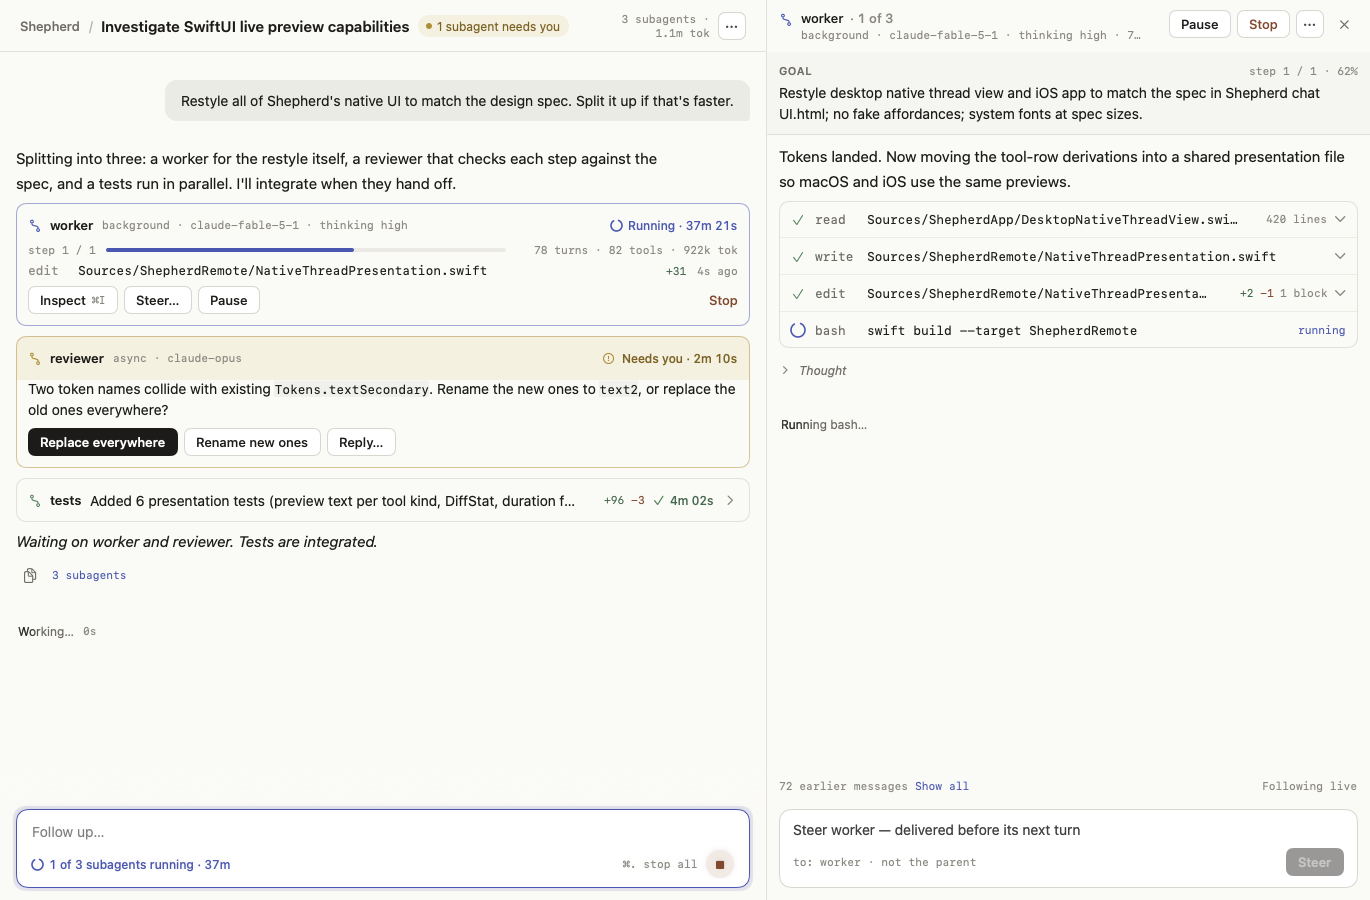
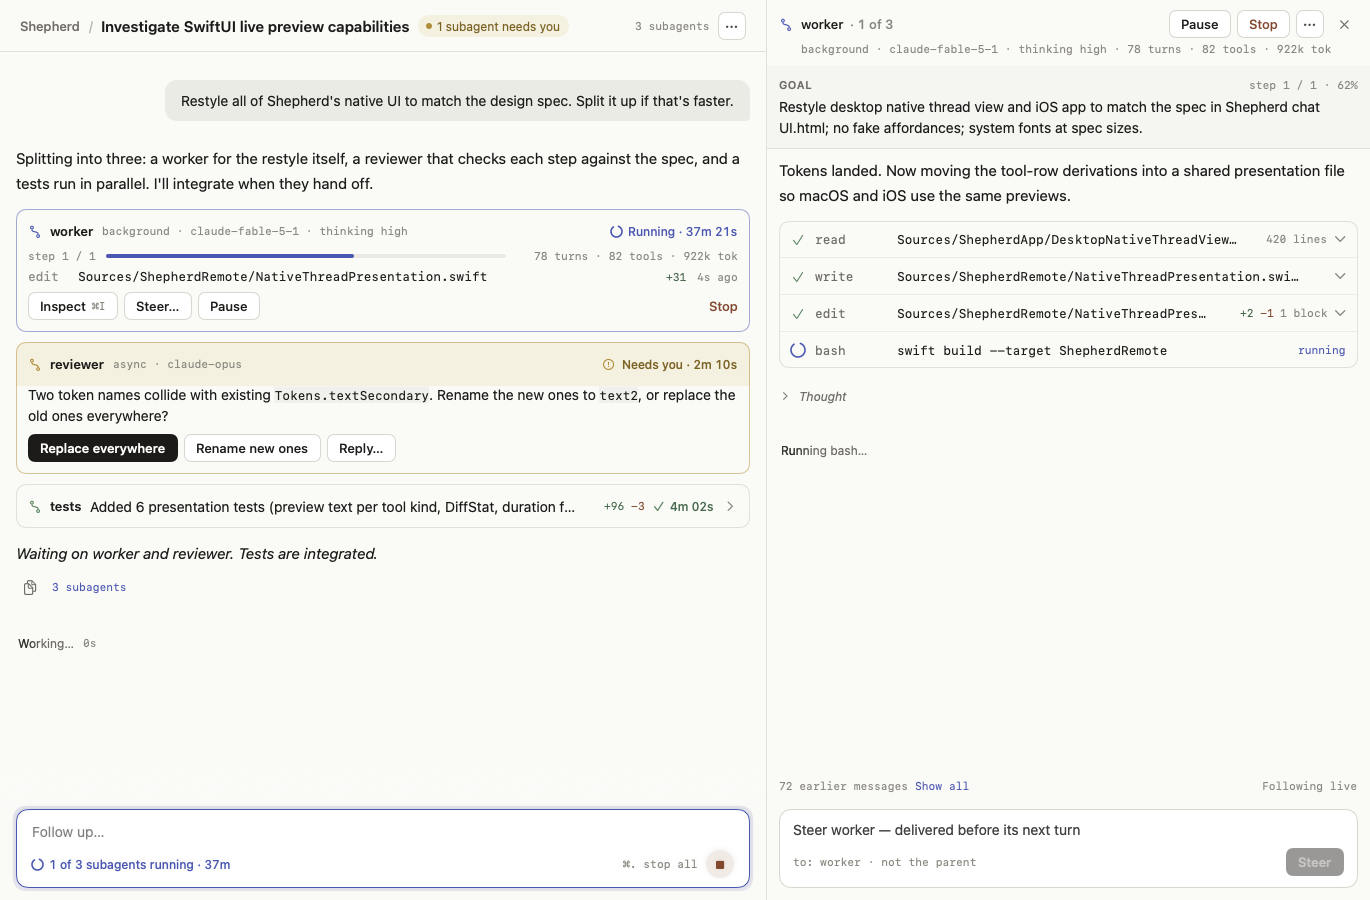
fix: clean up native threads rendered from real sessions

diff --git a/Sources/ShepherdApp/DesktopNativeThreadView.swift b/Sources/ShepherdApp/DesktopNativeThreadView.swift
@@ -612,14 +612,13 @@ struct NativeThreadHeader: View {
                     .fixedSize()
             }
             Spacer(minLength: 12)
-            // "3 subagents · 1.6m tok": stays even when the inspector narrows the header (board),
-            // wrapping to two lines like the board rather than yielding.
+            // "3 subagents · 1.6m tok"; a narrow header (inspector open) keeps one line and drops
+            // the token count to the tooltip rather than wrapping.
             if let rollup = nativeSubagentRollup(store.subagents) {
-                Text(rollup)
+                Text(wide ? rollup : "\(store.subagents.count) subagent\(store.subagents.count == 1 ? "" : "s")")
                     .font(NativeFonts.micro).foregroundStyle(NativeTokens.textMuted)
-                    .lineLimit(wide ? 1 : 2).fixedSize(horizontal: wide, vertical: true)
-                    .frame(maxWidth: wide ? nil : 96, alignment: .trailing)
-                    .multilineTextAlignment(.trailing)
+                    .lineLimit(1).fixedSize()
+                    .help(rollup)
                     .accessibilityLabel(rollup)
             }
             // Context size comes from pi's session stats (RPC agents only); the terminal bridge has none.
@@ -711,8 +710,6 @@ struct NativeAgentTurn: View {
     /// Timestamp (ms) of the user message that opened this turn; the footer's time and duration.
     var startedAt: Double? = nil
 
-    @State private var hovering = false
-
     var body: some View {
         let items = nativeTurnItems(messages)
         let streaming = running && messages.contains { $0.status == "streaming" || $0.status == "running" }
@@ -725,8 +722,19 @@ struct NativeAgentTurn: View {
                 case .prose(let text):
                     NativeProse(text: text)
                 case .tools(let group):
+                    // Groups get extra air so they read as blocks between paragraphs, not glued to them.
                     NativeToolGroup(messages: group, clock: clock, showTerminal: showTerminal,
                                     subagents: subagents, subagentActions: subagentActions)
+                        .padding(.vertical, 6)
+                case .error(let text, let count):
+                    // A failed request is a status line, not prose: pi retries and the next reply follows.
+                    HStack(spacing: 6) {
+                        Image(systemName: "exclamationmark.triangle").font(.system(size: 10, weight: .semibold))
+                        Text("Request failed · \(text)").lineLimit(1).truncationMode(.tail)
+                        if count > 1 { Text("×\(count)").monospacedDigit().foregroundStyle(NativeTokens.textMuted) }
+                    }
+                    .font(NativeFonts.caption).foregroundStyle(NativeTokens.dangerText)
+                    .help(text)
                 case .note(let text):
                     HStack(spacing: 8) {
                         Text(text).font(NativeFonts.caption).foregroundStyle(NativeTokens.textMuted)
@@ -740,35 +748,16 @@ struct NativeAgentTurn: View {
                subagents.byToolCall.isEmpty || !nativeSubagentGroupFolds(subagents) {
                 NativeSubagentStack(runs: subagents.byToolCall.isEmpty ? subagents.all : subagents.trailing, clock: clock, actions: subagentActions)
             }
-            if !streaming {
+            if !streaming, !items.isEmpty {
                 // Spawn rows the cards replaced are not tool calls the reader can see.
                 NativeTurnFooter(messages: messages.filter { $0.toolCallID.map { subagents.byToolCall[$0] == nil } ?? true },
                                  startedAt: startedAt, subagents: subagents.all, inspect: subagentActions?.inspect)
             }
         }
         .frame(maxWidth: .infinity, alignment: .leading)
-        // bb MessageActionBar: a ghost Copy at the turn's top-right on hover, completed turns only (F10).
-        .overlay(alignment: .topTrailing) {
-            if hovering, !streaming, !prose.isEmpty {
-                Button { copy() } label: { Image(systemName: "doc.on.doc") }
-                    .buttonStyle(NativeGhostIconStyle(size: 24))
-                    .help("Copy this reply as Markdown")
-                    .accessibilityLabel("Copy reply")
-            }
-        }
-        .onHover { hovering = $0 }
+        // Copy lives in the footer; a hover copy at the top-right collided with tool-row chevrons.
         .accessibilityElement(children: .contain)
         .accessibilityLabel("Agent")
-    }
-
-    private var prose: String {
-        messages.filter { $0.toolName == nil && $0.role != "toolResult" }
-            .flatMap(\.blocks).filter { $0.kind == .text }.map(\.text).joined(separator: "\n\n")
-    }
-
-    private func copy() {
-        NSPasteboard.general.clearContents()
-        NSPasteboard.general.setString(prose, forType: .string)
     }
 }
 
@@ -821,13 +810,15 @@ struct NativeTurnFooter: View {
         let time = nativeTurnTimeText(startedAt: startedAt, endedAt: messages.compactMap(\.timestamp).max())
         let ordered = subagents.sorted { ($0.startedAt ?? 0) < ($1.startedAt ?? 0) }
         HStack(spacing: 4) {
-            Button {
-                NSPasteboard.general.clearContents()
-                NSPasteboard.general.setString(prose.joined(separator: "\n\n"), forType: .string)
-            } label: { Image(systemName: "doc.on.doc") }
-            .buttonStyle(NativeGhostIconStyle())
-            .help("Copy the agent’s reply")
-            .accessibilityLabel("Copy reply")
+            if !prose.isEmpty {
+                Button {
+                    NSPasteboard.general.clearContents()
+                    NSPasteboard.general.setString(prose.joined(separator: "\n\n"), forType: .string)
+                } label: { Image(systemName: "doc.on.doc") }
+                .buttonStyle(NativeGhostIconStyle())
+                .help("Copy the agent’s reply")
+                .accessibilityLabel("Copy reply")
+            }
             HStack(spacing: 0) {
                 if let time { Text(time).monospacedDigit() }
                 if tools > 0 {
@@ -952,10 +943,9 @@ struct NativeToolGroup: View {
     var subagentActions: NativeSubagentActions? = nil
 
     var body: some View {
-        // 40pt fits pi's builtins (read/edit/bash/grep); longer extension tool names widen the
-        // column for the whole group, capped so a silly name cannot eat the preview.
-        let longest = messages.compactMap(\.toolName).map(\.count).max() ?? 4
-        let nameWidth = min(120, max(40, CGFloat(longest) * 7.6 + 4))
+        // One fixed column for every group so previews line up down the whole thread; it fits
+        // "subagent"/"websearch", longer names truncate in the middle (full name on hover).
+        let nameWidth = 72 * CGFloat(AppSettings.shared.uiTextScale)
         let segments = subagentActions == nil ? [NativeToolSegment.rows(messages)] : nativeToolSegments(messages, placement: subagents)
         VStack(alignment: .leading, spacing: NativeMetrics.blockSpacing) {
             ForEach(Array(segments.enumerated()), id: \.offset) { _, segment in
@@ -1011,6 +1001,7 @@ struct NativeToolRowView: View {
                     // lumen_review); anything longer truncates rather than pushing the preview.
                     Text(row.name).font(NativeFonts.code).foregroundStyle(NativeTokens.textTertiary)
                         .frame(width: nameColumnWidth, alignment: .leading).lineLimit(1).truncationMode(.middle)
+                        .help(row.name)
                     (Text(row.preview).foregroundStyle(NativeTokens.text) + Text(row.previewSuffix ?? "").foregroundStyle(NativeTokens.textMuted))
                         .font(NativeFonts.code).lineLimit(1).truncationMode(.tail)
                     Spacer(minLength: 8)

diff --git a/Tests/ShepherdAppTests/NativePresentationTests.swift b/Tests/ShepherdAppTests/NativePresentationTests.swift
@@ -4,7 +4,7 @@ import Testing
 import ShepherdCore
 import ShepherdProtocol
 import ShepherdRemote
-import ShepherdSessions
+@testable import ShepherdSessions
 @testable import ShepherdApp
 @testable import TerminalSurfaceKit
 
@@ -296,6 +296,30 @@ struct NativePresentationTests {
         let text = try? #require(nativeTurnTimeText(startedAt: start, endedAt: start + (45 * 60 + 12) * 1000))
         #expect(text?.hasSuffix(" · 45m 12s") == true)
         #expect(nativeTurnTimeText(startedAt: start, endedAt: nil) == nativeClockText(start))
+        // A sub-second turn shows only its clock time, not "0s".
+        #expect(nativeTurnTimeText(startedAt: start, endedAt: start + 400) == nativeClockText(start))
+    }
+
+    /// Real sessions carry pi system entries, blank assistant messages, and repeated provider
+    /// failures; none of them should become prose.
+    @Test func realSessionNoiseIsDroppedOrFolded() {
+        let user = message(["entryID": "u", "role": "user", "blocks": [["kind": "text", "text": "go"]]])
+        let system = message(["entryID": "s", "role": "system", "blocks": [["kind": "text", "text": ""]]])
+        let blank = message(["entryID": "b", "role": "assistant", "blocks": []])
+        let failed = { (id: String) in message(["entryID": id, "role": "assistant", "status": "error", "blocks": [["kind": "text", "text": "503 no available server"]]]) }
+        let reply = message(["entryID": "r", "role": "assistant", "blocks": [["kind": "text", "text": "Done."]]])
+        let turns = nativeTurns([system, user, blank, failed("e1"), failed("e2"), reply])
+        #expect(turns.map(\.isUser) == [true, false])
+        #expect(nativeTurnItems(turns[1].messages) == [.error("503 no available server", count: 2), .prose("Done.")])
+        // An empty user message still opens a turn.
+        #expect(nativeTurns([message(["entryID": "u0", "role": "user", "blocks": []]), reply]).count == 2)
+    }
+
+    @Test func subagentToolPreviewNamesTheAgentNotTheLaunchBoilerplate() {
+        let boiler = "Run fan-out: 0/32 used, 32 remaining\nAsync workflow [x]"
+        #expect(NativeToolRow(tool("subagent", args: #"{"agent":"delegate","task":"Say hello\nmore"}"#, output: boiler)).preview == "delegate · Say hello")
+        #expect(NativeToolRow(tool("subagent", args: #"{"workflowScript":"return 1"}"#, output: boiler)).preview == "workflow")
+        #expect(NativeToolRow(tool("subagent", args: #"{"action":"status"}"#, output: boiler)).preview == "status")
     }
 
     @Test func siblingsStepInSpawnOrderWithinTheGroup() {
@@ -808,6 +832,36 @@ struct NativePresentationTests {
         try await waitFor { store.ready && requests.count > stoppedCount }
         #expect(requests.last == .snapshot())
         #expect(store.draft == "draft stays native")
+    }
+
+    /// Renders a real pi session (SHEPHERD_REAL_SESSION=<jsonl>) through the native projection so
+    /// the visual pass sees real output, not fixtures. Skipped when the env var is unset.
+    @Test func realSessionRenders() async throws {
+        let env = ProcessInfo.processInfo.environment
+        guard let file = env["SHEPHERD_REAL_SESSION"] else { return }
+        guard case .transcript(let page) = RPCThreadState.transcript(runID: "real", file: file, beforeEntryID: nil) else {
+            Issue.record("unreadable session \(file)"); return
+        }
+        let snapshot = NativeThreadSnapshot(piSessionID: "real", generation: "g", revision: 1, running: false,
+                                            supportedActions: ["send", "abort", "answer"], dialogsSupported: true, dialogs: [],
+                                            messages: page.messages, provisional: [], clipped: false)
+        let store = NativeThreadStore()
+        let request: NativeThreadStore.Request = { _ in .snapshot(value: snapshot) }
+        _ = NSApplication.shared
+        let width = env["SHEPHERD_NATIVE_SCREENSHOT_WIDTH"].flatMap(Double.init) ?? 1500
+        let height = env["SHEPHERD_NATIVE_SCREENSHOT_HEIGHT"].flatMap(Double.init) ?? 1300
+        let window = NSWindow(contentRect: NSRect(x: 0, y: 0, width: width, height: height), styleMask: [.titled], backing: .buffered, defer: false)
+        let host = NSHostingView(rootView: VStack(spacing: 0) {
+            NativeThreadHeader(store: store, project: "Shepherd", title: "Real session", native: .constant(true), showTerminal: {})
+            DesktopNativeThreadView(store: store, active: true, isFocused: true, request: request, showTerminal: {})
+        }.preferredColorScheme(ThemeManager.shared.mode.colorScheme))
+        window.contentView = host
+        window.orderFront(nil)
+        defer { window.orderOut(nil); window.contentView = nil }
+        try await waitFor { store.ready }
+        try await Task.sleep(for: .milliseconds(400))
+        window.layoutIfNeeded()
+        try capture(host, name: "real-session")
     }
 
     /// The board's thread (docs/design-spec/subagents-with-inspector.png): a user turn, the

diff --git a/Sources/ShepherdRemote/NativeThreadPresentation.swift b/Sources/ShepherdRemote/NativeThreadPresentation.swift
@@ -137,6 +137,17 @@ public extension NativeToolRow {
             if !failed, lineCount > 0 { results.append(Result("\(lineCount) file\(lineCount == 1 ? "" : "s")", tone: .muted)) }
         case "ls":
             preview = string("path") ?? "."
+        case "subagent":
+            // pi-subagents: the output is launch boilerplate ("Run fan-out: 0/32 used…"); the
+            // agent and its task say what the call did.
+            let task = string("task").flatMap { $0.split(whereSeparator: \.isNewline).first.map(String.init) }
+            if let agent = string("agent") {
+                preview = task.map { "\(agent) · \($0)" } ?? agent
+            } else if args?["workflowScript"] != nil {
+                preview = "workflow"
+            } else {
+                preview = string("action") ?? firstLine
+            }
         default:
             // Spec §5 says unknown tools show the first output line; we prefer an obvious action
             // field first (a URL beats "<html>") and fall back to output. The 120-char cap is the spec's.
@@ -201,7 +212,12 @@ public struct NativeTurn: Identifiable, Equatable, Sendable {
 
 public func nativeTurns(_ messages: [NativeThreadMessage]) -> [NativeTurn] {
     var turns: [NativeTurn] = []
-    for message in messages {
+    // pi's system entries (prompt-section updates) and blank messages have nothing to read; kept,
+    // they render as stray notes and stretch the turn's duration to the next system update.
+    // User messages always stay: they are the turn boundaries.
+    for message in messages where message.role == "user" || (message.role != "system" && (message.toolName != nil
+        || message.role == "toolResult" || message.truncated || message.status == "error"
+        || message.blocks.contains { !$0.text.trimmingCharacters(in: .whitespacesAndNewlines).isEmpty || $0.kind == .unsupportedImage })) {
         let isUser = message.role == "user"
         if let last = turns.last, last.isUser == isUser {
             turns[turns.count - 1].messages.append(message)
@@ -220,6 +236,8 @@ public enum NativeTurnItem: Equatable, Sendable {
     case tools([NativeThreadMessage])
     /// Compaction and branch summaries, or an image that cannot render natively.
     case note(String)
+    /// A failed provider request (pi's `stopReason: "error"`); consecutive identical ones fold into a count.
+    case error(String, count: Int)
 }
 
 public func nativeTurnItems(_ messages: [NativeThreadMessage]) -> [NativeTurnItem] {
@@ -231,6 +249,12 @@ public func nativeTurnItems(_ messages: [NativeThreadMessage]) -> [NativeTurnIte
             } else {
                 items.append(.tools([message]))
             }
+            continue
+        }
+        if message.role == "assistant", message.status == "error" {
+            let text = message.blocks.filter { $0.kind == .text }.map(\.text).last ?? "Request failed"
+            if case .error(let last, let count) = items.last, last == text { items[items.count - 1] = .error(text, count: count + 1) }
+            else { items.append(.error(text, count: 1)) }
             continue
         }
         for block in message.blocks {
@@ -539,7 +563,7 @@ public func nativeClockText(_ milliseconds: Double, meridiem: Bool = true, timeZ
 public func nativeTurnTimeText(startedAt: Double?, endedAt: Double?) -> String? {
     guard let startedAt else { return nil }
     var parts = [nativeClockText(startedAt)]
-    if let endedAt, endedAt >= startedAt { parts.append(nativeDurationText((endedAt - startedAt) / 1000, live: true)) }
+    if let endedAt, endedAt - startedAt >= 1000 { parts.append(nativeDurationText((endedAt - startedAt) / 1000, live: true)) }
     return parts.joined(separator: " · ")
 }
 

diff --git a/Sources/ShepherdApp/DesktopNativeInspector.swift b/Sources/ShepherdApp/DesktopNativeInspector.swift
@@ -129,23 +129,20 @@ struct NativeSubagentInspector: View {
         let state = run.map(nativeSubagentState) ?? .done
         let siblings = siblings
         let position = siblings.firstIndex { $0.runID == runID }
-        return HStack(alignment: .top, spacing: 8) {
-            NativeBranchGlyph(color: nativeSubagentColor(state)).padding(.top, 2)
-            VStack(alignment: .leading, spacing: 2) {
-                HStack(spacing: 6) {
-                    Text(role).font(NativeFonts.label).foregroundStyle(NativeTokens.text).lineLimit(1)
-                    if let position, siblings.count > 1 {
-                        Text("· \(position + 1) of \(siblings.count)").font(NativeFonts.label).foregroundStyle(NativeTokens.textMuted).monospacedDigit()
-                    }
+        // Two rows: identity + controls, then the metadata across the full panel width so it
+        // is not squeezed between the role and the buttons.
+        return VStack(alignment: .leading, spacing: 4) {
+        HStack(spacing: 8) {
+            NativeBranchGlyph(color: nativeSubagentColor(state))
+            HStack(spacing: 6) {
+                Text(role).font(NativeFonts.label).foregroundStyle(NativeTokens.text).lineLimit(1)
+                if let position, siblings.count > 1 {
+                    Text("· \(position + 1) of \(siblings.count)").font(NativeFonts.label).foregroundStyle(NativeTokens.textMuted).monospacedDigit()
                 }
-                HStack(spacing: 0) {
-                    Text(meta).font(NativeFonts.micro).foregroundStyle(NativeTokens.textMuted).lineLimit(1).truncationMode(.tail)
-                    if let run, run.isTerminal {
-                        Text(meta.isEmpty ? "" : " · ").font(NativeFonts.micro).foregroundStyle(NativeTokens.textMuted)
-                        Text(stateWord(run)).font(NativeFonts.micro).foregroundStyle(state == .done ? NativeTokens.successText : NativeTokens.dangerText)
-                        if let ended = run.endedAt {
-                            Text(" \(nativeClockText(ended, meridiem: false))").font(NativeFonts.micro).foregroundStyle(NativeTokens.textMuted).monospacedDigit()
-                        }
+                if let run, run.isTerminal {
+                    Text(stateWord(run)).font(NativeFonts.micro).foregroundStyle(state == .done ? NativeTokens.successText : NativeTokens.dangerText)
+                    if let ended = run.endedAt {
+                        Text(nativeClockText(ended, meridiem: false)).font(NativeFonts.micro).foregroundStyle(NativeTokens.textMuted).monospacedDigit()
                     }
                 }
             }
@@ -210,8 +207,14 @@ struct NativeSubagentInspector: View {
                 .accessibilityLabel("Close inspector")
             }
         }
+        if !meta.isEmpty {
+            Text(meta).font(NativeFonts.micro).foregroundStyle(NativeTokens.textMuted).lineLimit(1).truncationMode(.tail)
+                .padding(.leading, 22).help(meta)
+        }
+        }
         .padding(.horizontal, NativeMetrics.subagentCardPadding)
-        .frame(height: NativeMetrics.inspectorHeaderHeight)
+        .padding(.vertical, 10)
+        .frame(minHeight: NativeMetrics.inspectorHeaderHeight)
         .frame(maxWidth: .infinity)
     }
 

diff --git a/Tests/ShepherdAppTests/NativeScrollTests.swift b/Tests/ShepherdAppTests/NativeScrollTests.swift
@@ -105,8 +105,9 @@ struct NativeScrollTests {
         try await f.layout()
         try await Task.sleep(for: .milliseconds(300))
         try await f.layout()
-        // Opens pinned to the tail.
-        #expect(f.distanceFromBottom < 2, "expected to open at the bottom, distance \(f.distanceFromBottom)")
+        // Opens pinned to the tail, within the follower's own "at the bottom" threshold (text layout
+        // at some column widths lands a fractional point off).
+        #expect(f.distanceFromBottom <= NativeScrollFollower.threshold, "expected to open at the bottom, distance \(f.distanceFromBottom)")
         // No trailing space: the document ends where the last turn ends (the composer is a
         // safe-area inset on the scroll view, not padding inside the content).
         let document = f.scrollView.documentView!

diff --git a/App/iOS/ThreadMessageView.swift b/App/iOS/ThreadMessageView.swift
@@ -60,6 +60,8 @@ struct MobileAgentTurn: View {
                     MobileToolGroup(messages: group)
                 case .note(let text):
                     Text(text).font(MobileTokens.caption12).foregroundStyle(tokens.textMuted)
+                case .error(let text, let count):
+                    Text(count > 1 ? "\(text) · ×\(count)" : text).font(MobileTokens.caption12).foregroundStyle(tokens.dangerText)
                 }
             }
             // No timestamps or durations from the bridge; only the tool count is real, and it is
